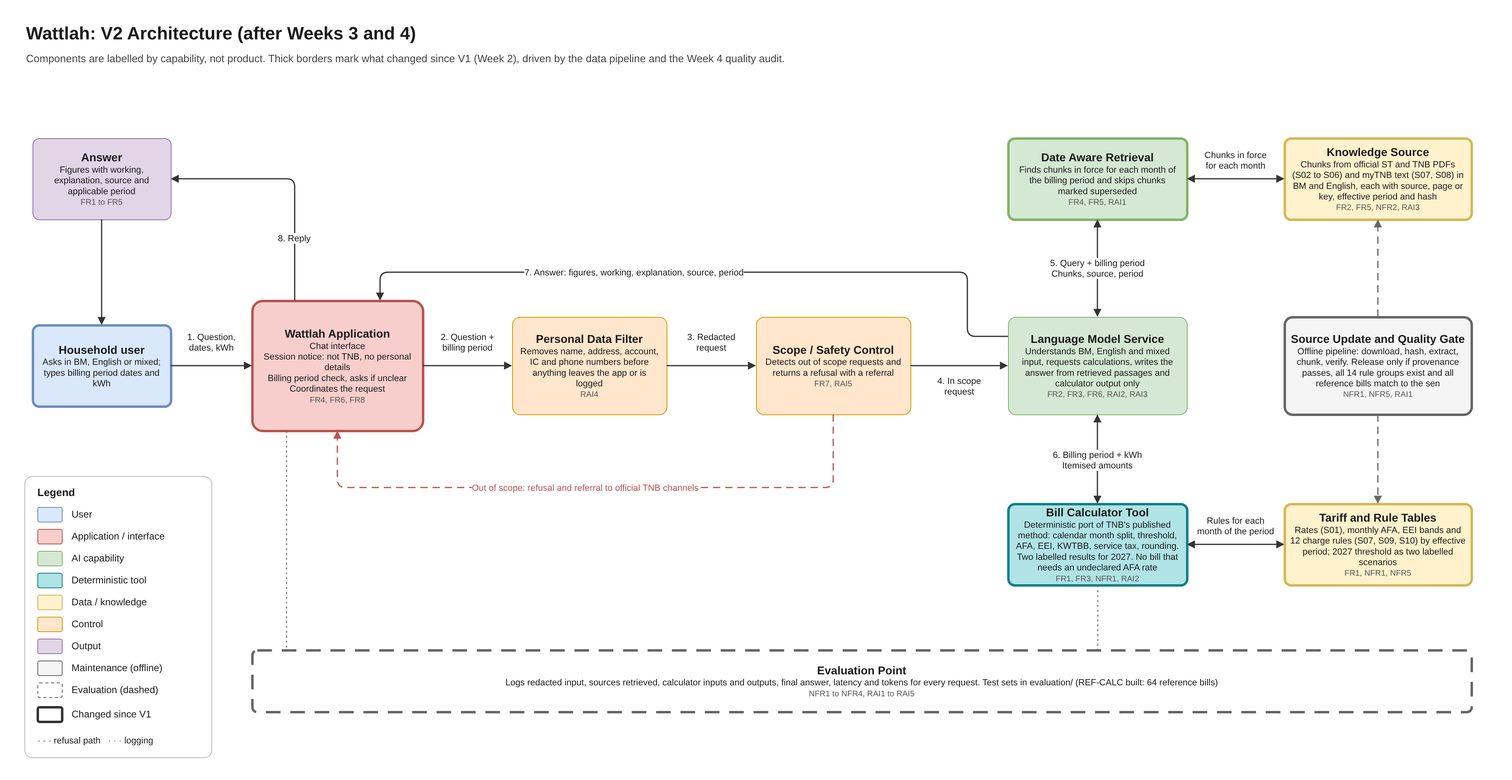
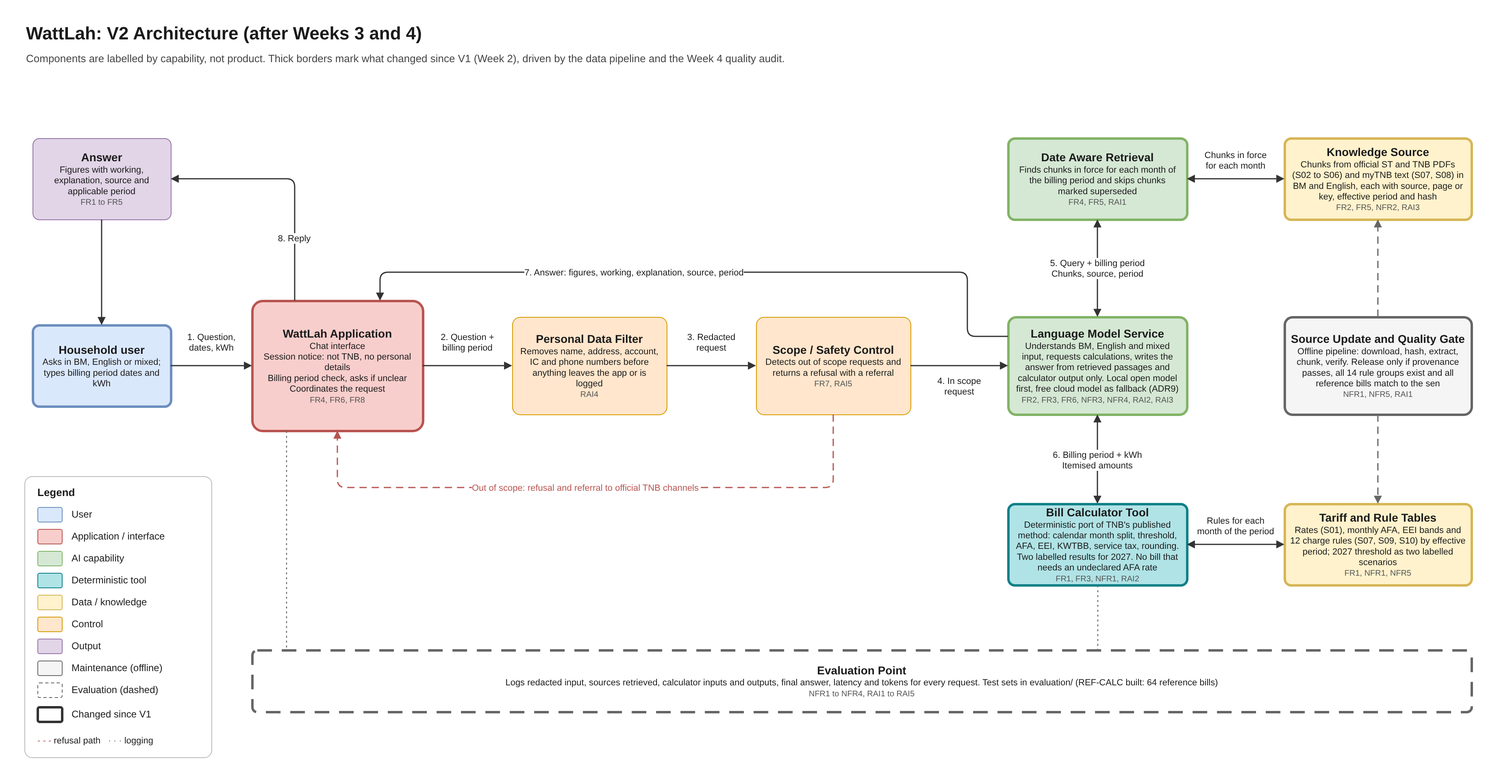
Phase 0: Wattlah name, ADR9 local model with cloud fallback, myTNB calculator in existing approaches

Changed region(s): [[0.6548, 0.4062, 0.7796, 0.5312], [0.0312, 0.0312, 0.2806, 0.0625], [0.1871, 0.4062, 0.2495, 0.4375]]

diff --git a/docs/week2_architecture_decisions.md b/docs/week2_architecture_decisions.md
@@ -1,15 +1,15 @@
-# Week 2 Architecture Decisions and Traceability: Wattlah
+# Week 2 Architecture Decisions and Traceability: WattLah
 
-Version: 1.1 (22 November 2026). Changes are listed at the end.
+Version: 1.2 (22 November 2026). Changes are listed at the end.
 Requirement IDs refer to [week2_requirements.md](week2_requirements.md); evaluation criteria to [week2_evaluation_criteria.md](week2_evaluation_criteria.md).
 
 ## 1. Starting Point: Simplest Architecture (C1)
 
-User question → Wattlah Application → Language Model Service → Answer
+User question → WattLah Application → Language Model Service → Answer
 
 **What it can do:** answer general questions about electricity bills in BM and English from the model's own knowledge.
 
-**Why it is not enough for Wattlah:**
+**Why it is not enough for WattLah:**
 - The model's knowledge stops at its cutoff, so it cannot know the September 2026 threshold change (FR4, RAI1).
 - It computes amounts inside the model, with no guarantee they are right (FR1, NFR1, RAI2).
 - It gives no source and no applicable period (FR5).
@@ -25,7 +25,7 @@ User question → Wattlah Application → Language Model Service → Answer
 | FR2, FR5, NFR2 | Explanations grounded in official documents, with a source for each rule | Knowledge Source of official ST and TNB documents, reached through Date Aware Retrieval |
 | FR6, RAI3 | BM, English and mixed input at equal quality | One Language Model Service path for both languages; parity measured at the Evaluation Point |
 | FR7, RAI5 | Out of scope requests declined and redirected | Scope / Safety Control before the model writes an answer |
-| FR8, RAI5 | Non affiliation and personal data notice | Session notice in the Wattlah Application |
+| FR8, RAI5 | Non affiliation and personal data notice | Session notice in the WattLah Application |
 | RAI4 | No identifiers sent to the model service or kept in logs | Personal Data Filter as the first step after input |
 | NFR3, NFR4 | Latency and cost within target | Short request path: one model service, calculator runs locally; latency and tokens logged |
 | NFR5 | Monthly updates without code changes | Rates and sources kept as data, updated through the Source Update path |
@@ -33,17 +33,17 @@ User question → Wattlah Application → Language Model Service → Answer
 
 ## 3. V1 Conceptual Architecture (C3)
 
-![Wattlah V1 conceptual architecture](week2_architecture_v1.png)
+![WattLah V1 conceptual architecture](week2_architecture_v1.png)
 
 Editable source: [week2_architecture_v1.drawio](week2_architecture_v1.drawio)
 
 | Component | Type | Role | Supports |
 |---|---|---|---|
 | Household user | User | Asks in BM, English or mixed; types billing period dates and kWh | - |
-| Wattlah Application | Application / interface | Chat interface, session notice, billing month check, coordinates the request | FR4, FR6, FR8 |
+| WattLah Application | Application / interface | Chat interface, session notice, billing period check, coordinates the request | FR4, FR6, FR8 |
 | Personal Data Filter | Control | Removes identifiers before anything leaves the application or is logged | RAI4 |
 | Scope / Safety Control | Control | Detects out of scope requests; returns refusal and referral | FR7, RAI5 |
-| Language Model Service | AI capability | Understands the question, requests calculations, writes the answer from retrieved passages and calculator output only | FR2, FR3, FR6, RAI2, RAI3 |
+| Language Model Service | AI capability | Understands the question, requests calculations, writes the answer from retrieved passages and calculator output only. Runs as a local open model, with a free-tier cloud model as fallback (ADR9) | FR2, FR3, FR6, RAI2, RAI3 |
 | Date Aware Retrieval | AI capability | Finds passages from documents in force for the billing month | FR4, FR5, RAI1 |
 | Knowledge Source | Data / knowledge | Official tariff documents and notices, each tagged with issuer, date and effective period | FR2, FR5, NFR2 |
 | Bill Calculator Tool | Deterministic tool | Itemised bill for one billing period, split by calendar month as TNB does; change between two periods split by cause; two labelled results for 2027 | FR1, FR3, NFR1, RAI2 |
@@ -76,6 +76,7 @@ The Evaluation Point records every step. Source Update runs offline and never si
 | ADR6 | Language handling | FR6, RAI3 | (a) Separate BM and English pipelines; (b) translate to English, answer, translate back; (c) one bilingual path answering in the user's language | (c) One bilingual path, sources kept in their original language | BM quality depends on the model's own BM ability and is not guaranteed, so parity is measured (RAI3) rather than assumed. Model selection from Topic 3 onwards must be tested in BM, not English only. |
 | ADR7 | Protection threshold from 1 January 2027 | FR1, RAI1, RAI2 | (a) Assume the 800 kWh relief continues; (b) assume it ends (600 kWh), as TNB's calculator does; (c) compute both and label them | (c) Two labelled results until the government announces | Longer answers with two totals that may confuse some users. When the decision is published, one data row changes and the second result disappears (NFR5). |
 | ADR8 | Months with no declared AFA rate | FR1, RAI2 | (a) Use TNB's projected rate; (b) compute nothing and show the projection as a forecast | (b) No bill when usage is above the threshold in a month whose AFA rate is not declared; bills at or below the threshold need no AFA rate and are computed | Users above the threshold cannot estimate the current month until TNB declares the rate, usually around the 1st. No projected number is ever presented as a bill amount. |
+| ADR9 | Language model hosting | NFR3, NFR4, RAI3, RAI4 | (a) Paid cloud model API; (b) local open model only; (c) local open model with a free-tier cloud model as fallback | (c) Local first, free cloud fallback; the specific model is chosen by the BM and English parity test (RAI3) | Near zero cost, and nothing leaves the user's machine when the local model answers. Local models are smaller, so BM quality (RAI3) and latency (NFR3) must be proven. When the fallback is used, the redacted question, kWh, billing dates and public source text go to the provider, whose free tier may use prompts to improve its models and has rate limits. The Personal Data Filter runs before either path (ADR3). |
 
 ## 5. Initial Requirements Traceability Matrix
 
@@ -98,14 +99,14 @@ All evidence is stored in `evaluation/` as it is produced.
 
 - **Does each major component support a requirement or evaluation need?** Yes. Every component in Section 3 maps to at least one requirement, and every requirement maps to at least one component.
 - **Is any important data source, safety control or evaluation point missing?** Two known gaps, both accepted for V1: new official notices are found and added manually (NFR5 covers the update, not the discovery), and there is no memory across sessions, which V1 does not need.
-- **Has any technology or component been added that is not yet justified?** No. Components are named by capability only. Models, retrieval method, storage and interface framework are chosen from Topic 3 onwards.
+- **Has any technology or component been added that is not yet justified?** No. Components are named by capability only. Models, retrieval method, storage and interface framework are chosen from Topic 3 onwards; ADR9 (v1.2) sets how the language model is hosted.
 - **Is there a simpler architecture that could still satisfy the requirements?** Two simplifications were considered and rejected. Dropping the Scope / Safety Control and relying on model instructions would make RAI5 hard to test or enforce on its own (ADR4). Merging the Tariff Rate Table into the Knowledge Source would leave the calculator reading rates out of prose, which breaks the 100% target in NFR1 (ADR1).
 
 ## Reflection (Part C)
 
 **Which architecture decision involved the most important trade-off? Which requirement drove the decision, and what trade-off did you accept?**
 
-ADR1, the deterministic calculator, driven by FR1, NFR1 and RAI2. Letting the model compute would have covered every tariff case with no extra work, but with no guarantee that any single amount is right. A calculator is exact, but only for the cases I code, and only as correct as the rates I copy from the PDFs into the table. I accepted a narrower system (no ToU, no solar) plus the manual work of keeping the rate table right, because a wrong ringgit amount is the most damaging failure Wattlah can have. A tool that is always right on fewer cases is more useful to a household than one that covers everything and is sometimes wrong.
+ADR1, the deterministic calculator, driven by FR1, NFR1 and RAI2. Letting the model compute would have covered every tariff case with no extra work, but with no guarantee that any single amount is right. A calculator is exact, but only for the cases I code, and only as correct as the rates I copy from the PDFs into the table. I accepted a narrower system (no ToU, no solar) plus the manual work of keeping the rate table right, because a wrong ringgit amount is the most damaging failure WattLah can have. A tool that is always right on fewer cases is more useful to a household than one that covers everything and is sometimes wrong.
 
 ## Changes in Version 1.1 (22 November 2026)
 
@@ -113,3 +114,8 @@ ADR1, the deterministic calculator, driven by FR1, NFR1 and RAI2. Letting the mo
 - **ADR7, ADR8 added:** 2027 threshold shown as two labelled scenarios; no bill that needs an undeclared AFA rate.
 - **Tariff Rate Table and Bill Calculator Tool:** now cover monthly AFA, EEI bands, KWTBB, service tax base, rounding and the calendar month split, following TNB's published calculation method.
 - The V1 diagram is unchanged as the Week 2 record; the current design is [architecture_v2.png](architecture_v2.png).
+
+## Changes in Version 1.2 (22 November 2026)
+
+- **ADR9 added:** local open model first, free-tier cloud model as fallback.
+- **Language Model Service:** role updated for ADR9. WattLah Application row now says billing period check, matching ADR5.

diff --git a/docs/week2_requirements.md b/docs/week2_requirements.md
@@ -1,8 +1,8 @@
-# Week 2 Requirements Specification: Wattlah
+# Week 2 Requirements Specification: WattLah
 
 *Semak bil elektrik anda*
 
-Version: 1.1 (22 November 2026). Version 1.0 was submitted on 26 October 2026; changes are listed at the end.
+Version: 1.2 (22 November 2026). Version 1.0 was submitted on 26 October 2026; changes are listed at the end.
 Builds on: [Week 1 project scope](week1_project_scope.md)
 Test sets named below (REF-CALC, REF-PAIR, PERIOD, QA, SCOPE, PII) are defined in [week2_evaluation_criteria.md](week2_evaluation_criteria.md).
 
@@ -23,7 +23,7 @@ Test sets named below (REF-CALC, REF-PAIR, PERIOD, QA, SCOPE, PII) are defined i
 | **Important Constraints** | - Solo developer, one semester.<br>- Low or zero budget: free or low cost model service tiers.<br>- Public documents only; no access to TNB customer systems or data.<br>- AFA changes every month and relief rules change at short notice, so sources must carry effective dates.<br>- A meter reading period rarely matches a calendar month, and relief can be credited on a later bill. Usage, thresholds and AFA rates are split across calendar months by days, following the calculation method TNB publishes, not assumed.<br>- Bills carry name, address and account number, which fall under the PDPA.<br>- Source files (PDFs and myTNB data files) are not redistributed; the repo keeps a source list with hashes only.<br>- Must not imply any affiliation with TNB. |
 | **Explicit Out of Scope Tasks** | - Time of Use (ToU) tariff<br>- Sabah (SESB) and Sarawak (SEB) customers<br>- Commercial, industrial and agricultural tariffs<br>- Solar, net metering (NEM) and self consumption schemes<br>- Billing months before July 2025 (pre RP4)<br>- Bill photo or PDF upload (deferred to V2)<br>- Billing disputes, meter faults, disconnection and account matters (referred to official TNB channels)<br>- Forecasting future AFA rates or future bills, including bills that need an AFA rate not yet declared (TNB's projection is shown only as a forecast)
 - Billing periods shorter than 28 days, because the service tax rule for them is not fully specified in the sources<br>- Legal, financial or energy saving investment advice |
-| **Evaluation Focus** | Does Wattlah give bill figures that match the official tariff to the sen, explain them with correct, cited sources for the right billing month, at comparable quality in BM and English, while refusing out of scope requests and protecting personal data, within an acceptable response time? |
+| **Evaluation Focus** | Does WattLah give bill figures that match the official tariff to the sen, explain them with correct, cited sources for the right billing month, at comparable quality in BM and English, while refusing out of scope requests and protecting personal data, within an acceptable response time? |
 
 **Changes from Week 1:** O2 now names scope control as a guardrail, and O3 adds scope handling, so that RAI5 traces to an objective. V1 input is limited to typed values; bill upload moves to V2 (see ADR5 in [week2_architecture_decisions.md](week2_architecture_decisions.md)).
 
@@ -38,7 +38,7 @@ Test sets named below (REF-CALC, REF-PAIR, PERIOD, QA, SCOPE, PII) are defined i
 | FR5 | Give a source reference (issuer, document title and date) for every rule or rate used in an answer. | Present information as coming from an official source when no source supports it. |
 | FR6 | Accept questions in BM, English or a mix of both, and answer in the language of the question unless the user asks otherwise. | - |
 | FR7 | Decline out of scope requests (Section 0) and redirect the user: billing disputes, meter faults and account matters to official TNB channels; other topics to an appropriate source. | Present itself as TNB or an official TNB channel, or give legal or financial advice. |
-| FR8 | Show a notice at the start of each session that Wattlah is independent of TNB and that users should not enter personal details. | Require a login, or ask for an account number, IC number, name or address. |
+| FR8 | Show a notice at the start of each session that WattLah is independent of TNB and that users should not enter personal details. | Require a login, or ask for an account number, IC number, name or address. |
 
 ## Section 2: Non-Functional Requirements
 
@@ -47,14 +47,14 @@ Test sets named below (REF-CALC, REF-PAIR, PERIOD, QA, SCOPE, PII) are defined i
 | NFR1 | Correctness (calculation) | Bill amounts shall match the published tariff for every supported case: domestic general tariff, Peninsular Malaysia, billing periods from July 2025 in which every month has a declared AFA rate. | Run REF-CALC (64 reference bills) and compare each component and the total with the reference value. | Share of cases within tolerance (each component ±RM0.01, total ±RM0.05) | 100% |
 | NFR2 | Correctness (explanation) | Explanations shall be consistent with the cited official documents. | Score the QA set claim by claim against the cited documents using a defined rubric. | Grounded response rate | ≥ 90% |
 | NFR3 | Performance | Answers, including retrieval and calculation, shall stay within the agreed latency target. | Log end to end time, from submitting the question to the complete answer, across all evaluation sets. | p90 latency (90% of answers are faster than this) | < 8,000 ms |
-| NFR4 | Cost | Model service cost shall stay within a student budget. | Record tokens per request across all evaluation sets and price them at the provider's published rate on the test date. | Cost per 100 queries | < US$1.00 |
+| NFR4 | Cost | Model service cost shall stay within a student budget. | Record tokens per request across all evaluation sets and price them at the provider's published rate on the test date. Local model calls count as zero. | Cost per 100 queries | < US$1.00 |
 | NFR5 | Maintainability | A newly published AFA rate or relief change shall be added as data, without changing code. | Controlled update test: add one new month's AFA notice and rate, then rerun the affected REF-CALC cases. | Time to update; code files changed | ≤ 10 min; 0 files |
 
 **Why these thresholds**
 - **NFR1 at 100%:** the arithmetic is deterministic code, so any miss is a defect, not acceptable variance. The ±RM0.05 tolerance on the total allows for rounding of line items on the printed bill.
 - **NFR2 at 90%:** explanations are generated text. Figures are already held to 100% by NFR1 and RAI2, so 90% is the V1 bar for the wording around them.
-- **NFR3 at 8 s:** each answer needs retrieval, a calculation step and generation. EduAdvisor's 3 s target has no calculation step. To be revisited once the first measurements exist.
-- **NFR4 at US$1 per 100 queries:** keeps a full evaluation run (about 150 queries) under US$2.
+- **NFR3 at 8 s:** each answer needs retrieval, a calculation step and generation. EduAdvisor's 3 s target has no calculation step. Kept at 8 s for V1 and measured from Topic 5 on the local model; slow local answers can use the cloud fallback (ADR9).
+- **NFR4 at US$1 per 100 queries:** keeps a full evaluation run (about 150 queries) under US$2. With a local open model and a free-tier cloud fallback (ADR9) the expected cost is near zero; it is still measured, because free-tier limits or a move to a paid tier would change it.
 - **NFR5 at 10 min:** AFA changes every month, so updating must be routine data entry, not a code release.
 
 ## Section 3: Responsible AI Requirements
@@ -84,3 +84,7 @@ Driven by the Week 4 data quality audit ([week4_data_quality_report.md](week4_da
 - **Charges added to the domain and FR1:** Energy Efficiency Incentive and KWTBB, which were missing from v1.0.
 - **Undeclared AFA months and short periods:** a bill that needs an undeclared AFA rate, and billing periods under 28 days, are out of scope; a projection is shown only as a forecast.
 - **NFR1:** REF-CALC now has 64 reference bills in `evaluation/reference_bills.csv`.
+
+## Changes in Version 1.2 (22 November 2026)
+
+- **NFR3, NFR4:** measurement and rationale updated for ADR9 (local open model with a free-tier cloud fallback). Thresholds unchanged.

diff --git a/docs/week4_data_quality_report.md b/docs/week4_data_quality_report.md
@@ -1,8 +1,8 @@
-# Week 4 Data Quality and Bias Report: Wattlah
+# Week 4 Data Quality and Bias Report: WattLah
 
-**Project:** Wattlah, "Semak bil elektrik anda" | **Author:** Muhammad Uwais Bin Zulkarnain (A24AI0114) | **Course:** SAIA3113 AI Engineering
+**Project:** WattLah, "Semak bil elektrik anda" | **Author:** Muhammad Uwais Bin Zulkarnain (A24AI0114) | **Course:** SAIA3113 AI Engineering
 **Audit date:** 20 November 2026 | **Repository state audited:** commit `35b9a07` (Week 3 data, unchanged since `e880a18`)
-**Version 1.1 (22 November 2026):** aligned with the Topic 4 lecture terms (rule anatomy, defect types, bias types and propagation, data leaving the system) and re-review added as Appendix C. Findings and numbers are unchanged.
+**Version 1.1 (22 November 2026):** aligned with the Topic 4 lecture terms (rule anatomy, defect types, bias types and propagation, data leaving the system) and re-review added as Appendix C. Findings and numbers are unchanged. **Version 1.2 (22 November 2026):** privacy row updated for ADR9 (local model with free cloud fallback).
 
 Labels used: **[Observed]** checked directly in the data or source, **[Inferred risk]** a likely effect not yet tested, **[N.V.]** not verified.
 
@@ -10,7 +10,7 @@ Labels used: **[Observed]** checked directly in the data or source, **[Inferred 
 
 | Field | Record |
 |---|---|
-| Purpose and users | Bilingual (BM and English) explainer for Peninsular Malaysia households on the TNB domestic general tariff. Users type their kWh and billing dates; Wattlah computes the bill with a deterministic calculator and explains each charge from official documents (retrieval over dated sources). |
+| Purpose and users | Bilingual (BM and English) explainer for Peninsular Malaysia households on the TNB domestic general tariff. Users type their kWh and billing dates; WattLah computes the bill with a deterministic calculator and explains each charge from official documents (retrieval over dated sources). |
 | Requirements audited | **NFR1** Correctness (calculation): bill amounts must match the published tariff for every supported case. Needs every charge rule, rate and monthly AFA value. **RAI1** Wrong period: only rules in force for the billing month may be used. Needs a correct effective period on every chunk and rule. |
 | Pathways | **A, text:** `data/processed/prepared_text.jsonl` (Topic 3 Part B), lineage L01 to L05 in `data/week3_manifest.json`. Byte-identical to `data/pipeline_v1/documents/prepared_text.jsonl` (Part C). **B, tables:** `data/processed/prepared_tariff_rates.csv` and `prepared_relief_rules.csv`, lineage L06 and L07. |
 | Sources | S01 to S06 in `data/raw/source_registry.csv`: TNB tariff schedule, ST media statement, four TNB press releases, published 20 Jun 2025 to 2 Oct 2026, retrieved 16 Nov 2026. Public official publications. All six SHA-256 hashes match the registry [Observed]. |
@@ -65,7 +65,7 @@ Source choice (BM-only tariff schedule and ST statement, English press releases 
 | Generated response | Ungrounded or mistranslated answer | Answer only from retrieved text and calculator output (RAI2) |
 | User experience | English speakers get weaker help | RAI3 parity measured per period, not only overall |
 
-**Other bias types checked.** Historical: S03 and S04 state the AFA history and rebate totals as at 15 Sep 2026, which is accurate but goes stale, so those figures stay dated to that release. Measurement: chunk count is not a coverage measure (Sep 2026 has 33 chunks but none on KWTBB), so coverage was measured per month, language and topic. Viewpoint: all six sources come from TNB or ST, so explanations follow the utility's framing (for example "RM3.1 billion in rebates"); Wattlah states facts and amounts, not promotional claims.
+**Other bias types checked.** Historical: S03 and S04 state the AFA history and rebate totals as at 15 Sep 2026, which is accurate but goes stale, so those figures stay dated to that release. Measurement: chunk count is not a coverage measure (Sep 2026 has 33 chunks but none on KWTBB), so coverage was measured per month, language and topic. Viewpoint: all six sources come from TNB or ST, so explanations follow the utility's framing (for example "RM3.1 billion in rebates"); WattLah states facts and amounts, not promotional claims.
 
 ## 6. Privacy, Rights and Governance
 
@@ -74,7 +74,7 @@ Source choice (BM-only tariff schedule and ST statement, English press releases 
 | Provenance and version | Six sources with issuer, document reference, publish date, retrieval date and SHA-256 in the registry; all hashes verified [Observed]. Lineage L01 to L07 in `week3_manifest.json`; L06 and L07 raw CSV hashes are line-ending dependent (section 3). |
 | Rights | Public official publications. Raw PDFs are not in the repository: `git ls-files` lists 0 PDFs [Observed]. Whether the extracted press release text may be republished in a public repository: **[N.V.]**. TNB pages state "Hak Cipta Terpelihara". |
 | Privacy | Raw S03 page 3 lists named media contacts with personal mobile numbers. That page is excluded by the end-marker rule, and the prepared text has 0 mobile, IC or long account number matches [Observed]. 5 chunks keep TNB's organisational CareLine email, which is not personal data. |
-| Will data leave the system? | Not in this audit: no model is integrated yet. From the V1 build, the user's question, kWh, billing dates and retrieved public chunks go to the external model service, after the Personal Data Filter removes identifiers (RAI4, ADR3). Raw sources and logs stay local. |
+| Will data leave the system? | Not in this audit: no model is integrated yet. From the V1 build a local open model answers by default, so nothing leaves the device. If the free cloud fallback is used (ADR9), the user's question, kWh, billing dates and retrieved public chunks go to that provider after the Personal Data Filter removes identifiers (RAI4, ADR3); its free tier may use prompts to improve its models. Raw sources and logs stay local. |
 | User interaction / consent | No personal data is collected in the corpus, so consent does not apply. V1 stores only redacted evaluation logs; their purpose, access and retention must be written down before any public release **[N.V.]**. |
 | Maintenance | Owner: project author. Re-validate on each monthly AFA declaration (around the 1st), any new TNB or ST notice, a government decision on 2027 protection, or a change in the myTNB page hash. |
 

diff --git a/docs/week2_evaluation_criteria.md b/docs/week2_evaluation_criteria.md
@@ -1,6 +1,6 @@
-# Week 2 Evaluation Criteria: Wattlah
+# Week 2 Evaluation Criteria: WattLah
 
-Version: 1.1 (22 November 2026). Changes are listed at the end.
+Version: 1.2 (22 November 2026). Changes are listed at the end.
 Requirement IDs refer to [week2_requirements.md](week2_requirements.md).
 
 ## Evaluation Criteria Table
@@ -13,10 +13,10 @@ Requirement IDs refer to [week2_requirements.md](week2_requirements.md).
 | O1, O3 / FR2, FR5, NFR2 | Grounded and cited explanations | Generation capability | Score QA claim by claim against the cited documents; check that each citation exists and supports the claim it is attached to. | Grounded response rate; citation presence rate; citation source match rate | ≥ 90%; 100%; ≥ 95% | Users can check any explanation against the official document themselves. |
 | O2, O3 / RAI2 | Figure traceability | Instruction-following capability | Trace every figure in amount bearing answers, across all sets, to the calculation log or a cited source. | Untraceable figures; working shown rate | 0; 100% | No confident but made up ringgit amount reaches a user. |
 | O1, O3 / FR6, RAI3 | BM and English parity | Generation capability | Score the 20 QA question pairs in both languages with the same rubric. | Absolute gap in correct response rate | ≤ 10 percentage points | Households who prefer BM get equally reliable help. |
-| O2, O3 / FR7, FR8, RAI5 | Out of scope refusal and redirect | Instruction-following capability | Run SCOPE; check that each answer declines and points to the right channel; check the notice in every session. | Refusal and redirect success rate; notice shown rate | ≥ 95%; 100% | Disputes go to TNB, and users do not mistake Wattlah for an official channel. |
+| O2, O3 / FR7, FR8, RAI5 | Out of scope refusal and redirect | Instruction-following capability | Run SCOPE; check that each answer declines and points to the right channel; check the notice in every session. | Refusal and redirect success rate; notice shown rate | ≥ 95%; 100% | Disputes go to TNB, and users do not mistake WattLah for an official channel. |
 | O2, O3 / RAI4 | Personal data protection | Instruction-following capability | Run PII; inspect outgoing model payloads and stored logs. | Identifiers transmitted or stored | 0 | Users can ask about their bill without exposing personal data. |
 | O3 / NFR3 | Response latency | Cost and latency | Log end to end time across all sets. | p90 latency | < 8 s | Answers arrive fast enough for a quick check when a bill arrives. |
-| O3 / NFR4 | Cost per query | Cost and latency | Record tokens per request across all sets; price at the provider's published rate on the test date. | Cost per 100 queries | < US$1.00 | The tool runs on a student budget, and a free public version stays realistic. |
+| O3 / NFR4 | Cost per query | Cost and latency | Record tokens per request across all sets; price at the provider's published rate on the test date. Local model calls count as zero. | Cost per 100 queries | < US$1.00 | The tool runs on a student budget, and a free public version stays realistic. |
 
 Personal data protection is a system control rather than a model capability. It is grouped under instruction-following because the test checks whether the system obeys a defined rule.
 
@@ -33,16 +33,20 @@ NFR5 (monthly update without code change) is evaluated by the controlled update 
 | SCOPE | Out of scope requests: disputes, meter faults, ToU, Sabah and Sarawak, solar, AFA forecasts, legal or financial advice. | ≥ 20 (half BM, half English) | FR7, FR8, RAI5 |
 | PII | Questions containing seeded fake names, addresses, account, IC and phone numbers, including numbers that look like kWh readings. | ≥ 15 | RAI4 |
 
-- Expected values in REF-CALC and REF-PAIR are produced outside Wattlah, so the calculator is never graded against itself.
+- Expected values in REF-CALC and REF-PAIR are produced outside WattLah, so the calculator is never graded against itself.
 - All sets and results are kept in `evaluation/`. Real bills are stored only after identifiers are removed.
 
 ## Reflection (Part B)
 
-**Which evaluation criterion is most important for determining whether Wattlah will be useful to its intended users? Why?**
+**Which evaluation criterion is most important for determining whether WattLah will be useful to its intended users? Why?**
 
-Calculation accuracy. The first thing a user does is hold Wattlah's answer next to their actual bill. If one ringgit figure does not match, the explanation around it loses all credibility, and if the user does not notice the mismatch, they act on a wrong number, which is worse. It is also the main thing that separates Wattlah from a general chatbot. Applicable billing period is a close second, because a correct calculation done with the wrong month's AFA rate is still a wrong bill.
+Calculation accuracy. The first thing a user does is hold WattLah's answer next to their actual bill. If one ringgit figure does not match, the explanation around it loses all credibility, and if the user does not notice the mismatch, they act on a wrong number, which is worse. It is also the main thing that separates WattLah from a general chatbot. Applicable billing period is a close second, because a correct calculation done with the wrong month's AFA rate is still a wrong bill.
 
 ## Changes in Version 1.1 (22 November 2026)
 
-- **REF-CALC built:** 64 reference bills. Expected values come from TNB's published calculator method rather than a hand checked spreadsheet, so they are still produced outside Wattlah and are closer to what TNB actually bills.
+- **REF-CALC built:** 64 reference bills. Expected values come from TNB's published calculator method rather than a hand checked spreadsheet, so they are still produced outside WattLah and are closer to what TNB actually bills.
 - **PERIOD:** the 1 January 2027 reversion was not an official rule; tests now check that both 2027 scenarios are shown and labelled.
+
+## Changes in Version 1.2 (22 November 2026)
+
+- **NFR4:** local model calls count as zero cost (ADR9). Threshold unchanged.

diff --git a/docs/week1_project_scope.md b/docs/week1_project_scope.md
@@ -1,12 +1,12 @@
-# Week 1 Project Scope: Wattlah
+# Week 1 Project Scope: WattLah
 
 *Semak bil elektrik anda*
 
 | Field | Details |
 |---|---|
-| **Project Name** | Wattlah: *Semak bil elektrik anda* (check your electricity bill) |
+| **Project Name** | WattLah: *Semak bil elektrik anda* (check your electricity bill) |
 | **Domain** | Household energy and consumer utilities: domestic electricity billing in Peninsular Malaysia (TNB) |
-| **Problem Statement** | Since July 2025, a domestic TNB bill is built from several parts: energy, capacity and network charges, a retail charge, service tax, and an Automatic Fuel Adjustment (AFA) that changes every month. On top of that, relief rules shift at short notice. The exemption threshold moved from 600 kWh to 800 kWh for September to December 2026 and reverts on 1 January 2027. When a bill rises, most households cannot tell whether the cause is their usage, the AFA, or crossing a threshold. The answer exists, but it is spread across tariff schedules, press releases and the bill itself. Wattlah is a bilingual (BM and English) assistant that answers "why did my bill change?" by grounding every explanation in official tariff documents and computing every figure with a deterministic calculator, so the model explains but never guesses numbers. AI is needed because the hard part is not the arithmetic, which a calculator handles, but understanding free form questions in BM, English or a mix of both, matching them to the right rule for the right billing month, and explaining the result in plain language. A fixed rule based tool or a keyword search cannot do that. |
+| **Problem Statement** | Since July 2025, a domestic TNB bill is built from several parts: energy, capacity and network charges, a retail charge, service tax, and an Automatic Fuel Adjustment (AFA) that changes every month. On top of that, relief rules shift at short notice. The exemption threshold moved from 600 kWh to 800 kWh for September to December 2026, and what applies from 1 January 2027 has not been decided. When a bill rises, most households cannot tell whether the cause is their usage, the AFA, or crossing a threshold. The answer exists, but it is spread across tariff schedules, press releases and the bill itself. WattLah is a bilingual (BM and English) assistant that answers "why did my bill change?" by grounding every explanation in official tariff documents and computing every figure with a deterministic calculator, so the model explains but never guesses numbers. AI is needed because the hard part is not the arithmetic, which a calculator handles, but understanding free form questions in BM, English or a mix of both, matching them to the right rule for the right billing month, and explaining the result in plain language. A fixed rule based tool or a keyword search cannot do that. |
 
 ## Evidence of the Problem
 
@@ -33,7 +33,11 @@ Key limitation: Computes an estimate, but the user must find and enter the month
 Source: I. P. H. Putro et al., "Retrieval Augmented Generation (RAG) Chatbot for Handling Customer Complaints in the Energy Sector", *Jurnal Infomedia*, 10(2), 105 to 111, 2025. https://e-jurnal.pnl.ac.id/infomedia/article/view/7169
 Key limitation: Shows that retrieval in a local language works for a utility (92% of answers rated helpful), but it is grounded in past complaint records rather than tariff rules. It was evaluated with BLEU and ROUGE, which measure wording overlap and cannot catch a wrong ringgit amount.
 
-**4. General purpose AI assistants (ChatGPT, Claude)**
+**4. TNB's own bill calculator (myTNB tariff page)**
+Source: https://www.mytnb.com.my/tariff/index.html (retrieved 17 November 2026)
+Key limitation: Estimates a bill from kWh and billing dates with TNB's published method, including the monthly AFA, and states that the result is an estimate. It does not explain each charge, answer follow up questions or cite the rule behind a figure.
+
+**5. General purpose AI assistants (ChatGPT, Claude)**
 Source: Own observation, Week 1 Lab Part A (Claude.ai, Figure A1.3).
 Key limitation: Their knowledge has a fixed cutoff (Claude reported about June 2026), so without live search they cannot know the September 2026 threshold change. They also compute arithmetic inside the model, with no guarantee the numbers are right.
 
@@ -91,7 +95,7 @@ Control: run the same test set in both languages and report the gap.
 **Risk 4: Personal data.** Users paste or upload bills containing name, address and account number, which falls under the PDPA.
 Control: do not store uploads, redact identifiers before processing, and warn users before upload.
 
-**Risk 5: Mistaken authority.** Users treat Wattlah as an official TNB channel and rely on it in a billing dispute.
+**Risk 5: Mistaken authority.** Users treat WattLah as an official TNB channel and rely on it in a billing dispute.
 Control: a clear "not affiliated with TNB" notice, and disputes are always referred to official TNB channels.
 
-*Updated 22 November 2026: Risk 1 example corrected. The earlier example assumed the 800 kWh relief reverts on 1 January 2027, which no official source states (see [week2_requirements.md](week2_requirements.md), version 1.1).*
+*Updated 22 November 2026: Risk 1 example and the problem statement corrected, and TNB's own bill calculator added as existing approach 4. The earlier example assumed the 800 kWh relief reverts on 1 January 2027, which no official source states (see [week2_requirements.md](week2_requirements.md), version 1.1).*

diff --git a/README.md b/README.md
@@ -1,8 +1,8 @@
-# Wattlah
+# WattLah: Your TNB Power Bill Guide and Decoder
 
 **Semak bil elektrik anda.**
 
-> Wattlah explains Malaysian household electricity bills in BM and English. It grounds every answer in official tariff documents and computes every figure with a verified calculator.
+> WattLah explains Malaysian household electricity bills in BM and English. It grounds every answer in official tariff documents and computes every figure with a verified calculator.
 
 *Independent student project for SAIA3113 AI Engineering, UTM. Not affiliated with or endorsed by Tenaga Nasional Berhad (TNB).*
 
@@ -10,7 +10,7 @@
 
 Since July 2025, a domestic TNB bill combines energy, capacity, network and retail charges, an Energy Efficiency Incentive, a 1.6% Renewable Energy Fund levy (KWTBB), service tax, and an Automatic Fuel Adjustment (AFA) that changes every month. On top of that, relief thresholds change at short notice. When a bill rises, households cannot easily tell whether the cause is usage, the AFA, or crossing a threshold.
 
-General chatbots go out of date and can get the arithmetic wrong, while calculators give a number without explaining it. Wattlah combines retrieval over dated official documents with a deterministic calculator, so it can explain the change correctly and show its working. The AI handles what rules cannot: free form questions in BM, English or a mix of both, matched to the right rule for the right billing month.
+General chatbots go out of date and can get the arithmetic wrong, while calculators give a number without explaining it. WattLah combines retrieval over dated official documents with a deterministic calculator, so it can explain the change correctly and show its working. The AI handles what rules cannot: free form questions in BM, English or a mix of both, matched to the right rule for the right billing month.
 
 ## Evidence of the Problem
 
@@ -21,6 +21,7 @@ General chatbots go out of date and can get the arithmetic wrong, while calculat
 
 - **TNB itemised bill (since July 2025):** lists each charge but does not explain why the total changed or answer questions ([Malay Mail, 1 Jul 2025](https://www.malaymail.com/news/malaysia/2025/07/01/new-tnb-itemised-electricity-bills-will-help-consumers-better-understand-manage-energy-use/182364)).
 - **Third party bill calculators:** compute an estimate, but the user must look up the month's AFA rate. ToU is excluded and nothing is explained ([Paul Tan TNB Bill Calculator](https://paultan.org/tnb-calculator/)).
+- **TNB's own bill calculator (myTNB tariff page):** estimates a bill from kWh and billing dates with TNB's published method, including the monthly AFA. It states the result is an estimate, and it does not explain each charge, answer questions or cite sources ([myTNB tariff page](https://www.mytnb.com.my/tariff/index.html)). WattLah uses this method as its calculation reference (64 of 64 reference bills match).
 - **RAG chatbot for PLN complaints (Putro et al., 2025):** shows retrieval in a local language works for a utility. However, it is grounded in complaint records rather than tariff rules, and BLEU and ROUGE scores cannot catch a wrong amount ([Jurnal Infomedia](https://e-jurnal.pnl.ac.id/infomedia/article/view/7169)).
 - **General purpose AI assistants:** have a fixed knowledge cutoff and compute numbers inside the model. In our Week 1 lab, Claude reported a cutoff of about June 2026, before the September threshold change.
 

diff --git a/docs/week3_pipeline_decisions.md b/docs/week3_pipeline_decisions.md
@@ -1,9 +1,9 @@
-# Week 3 Pipeline Decisions, Stage Contracts and Traceability: Wattlah
+# Week 3 Pipeline Decisions, Stage Contracts and Traceability: WattLah
 
 Version: 1.0 (16 November 2026)
 Builds on: [week2_requirements.md](week2_requirements.md), [week2_architecture_decisions.md](week2_architecture_decisions.md). Sources: [week3_data_inventory.md](week3_data_inventory.md). Notebook: [notebooks/week3_pipeline.ipynb](../notebooks/week3_pipeline.ipynb).
 
-![Wattlah Week 3 V1 data pipeline](week3_pipeline_diagram.png)
+![WattLah Week 3 V1 data pipeline](week3_pipeline_diagram.png)
 
 Editable source: [week3_pipeline_diagram.drawio](week3_pipeline_diagram.drawio)
 

diff --git a/docs/week3_data_inventory.md b/docs/week3_data_inventory.md
@@ -1,4 +1,4 @@
-# Week 3 Data Inventory: Wattlah
+# Week 3 Data Inventory: WattLah
 
 Version: 1.0 (16 November 2026)
 Requirement IDs refer to [week2_requirements.md](week2_requirements.md). Notebook: [notebooks/week3_pipeline.ipynb](../notebooks/week3_pipeline.ipynb).
